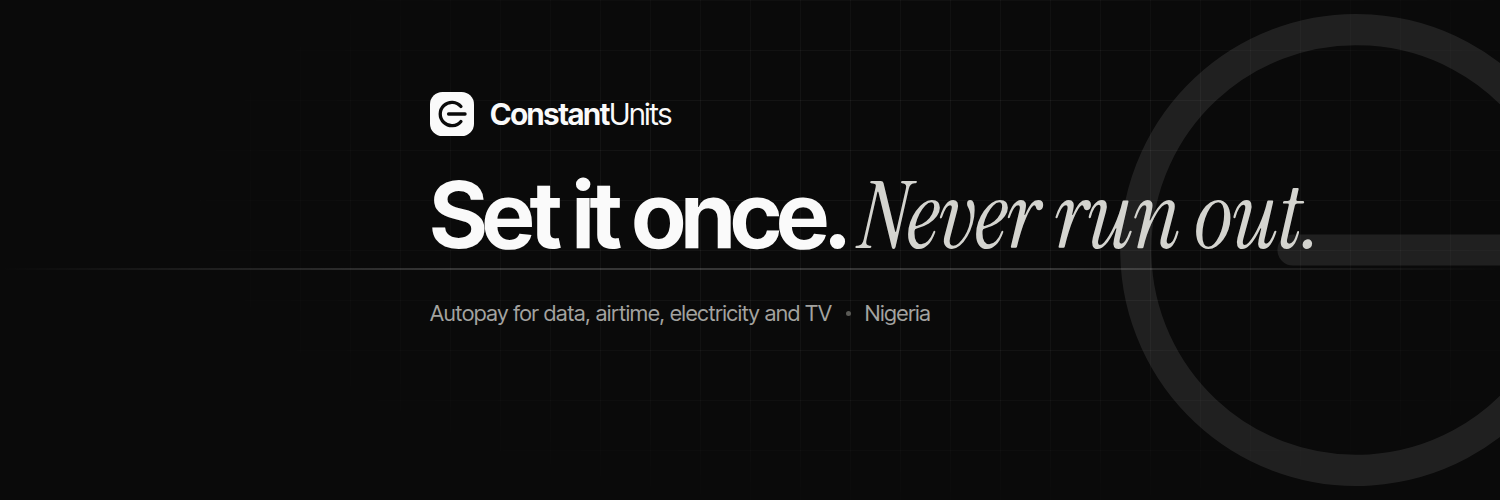
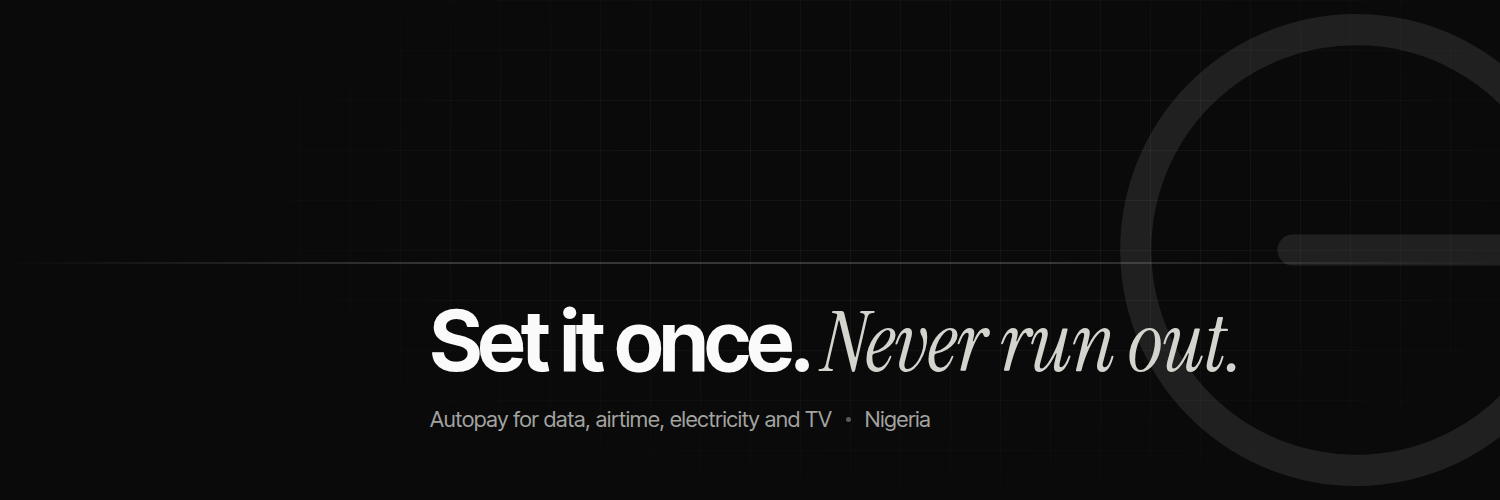
X header: text in the lower band, clear of the phone app's buttons
Claude-Session: https://claude.ai/code/session_01PthFm9iAEGM2oo19mkifC3

diff --git a/brand/src/header.html b/brand/src/header.html
@@ -7,17 +7,18 @@ body { position: relative; background: #0a0a0a; color: #fafafa; }
   background-image: linear-gradient(rgba(255,255,255,.045) 1px, transparent 1px), linear-gradient(90deg, rgba(255,255,255,.045) 1px, transparent 1px);
   background-size: 50px 50px; mask-image: radial-gradient(ellipse 70% 90% at 62% 40%, #000 30%, transparent 75%); }
 /* The level line from the mark, running across: the level that never drops. */
-.level { position: absolute; left: 0; right: 0; top: 268px; height: 2px; background: linear-gradient(90deg, transparent 0, rgba(255,255,255,.18) 30%, rgba(255,255,255,.18) 70%, transparent 100%); }
+.level { position: absolute; left: 0; right: 0; top: 262px; height: 2px; background: linear-gradient(90deg, transparent 0, rgba(255,255,255,.18) 30%, rgba(255,255,255,.18) 70%, transparent 100%); }
 /* The mark, large and cropped at the right edge. */
 .big { position: absolute; right: -150px; top: 50%; width: 560px; height: 560px; transform: translateY(-50%); opacity: .09; }
-/* Content stays in the centre and right: the profile photo covers the lower left, and phones crop the edges. */
-.content { position: absolute; left: 430px; top: 92px; width: 900px; }
+/* Content sits in the lower band, right of the profile photo. The X phone app lays its back, search and menu
+   buttons across the middle of the header and darkens the top; the profile photo covers the lower left. */
+.content { position: absolute; left: 430px; top: 300px; width: 960px; }
 .brand { display: flex; align-items: center; gap: 16px; font-size: 30px; font-weight: 650; letter-spacing: -.03em; }
 .brand .units { font-weight: 400; }
 .brand svg { width: 44px; height: 44px; }
-h1 { margin-top: 34px; font-size: 92px; line-height: .98; font-weight: 650; letter-spacing: -.045em; }
+h1 { font-size: 84px; line-height: .98; font-weight: 650; letter-spacing: -.045em; }
 h1 em { font-family: "Instrument Serif", serif; font-style: italic; font-weight: 400; letter-spacing: -.01em; color: #d4d4cf; }
-.meta { margin-top: 38px; display: flex; gap: 14px; align-items: center; font-size: 22px; color: #a3a3a0; letter-spacing: -.005em; }
+.meta { margin-top: 22px; display: flex; gap: 14px; align-items: center; font-size: 22px; color: #a3a3a0; letter-spacing: -.005em; }
 .meta .dot { width: 5px; height: 5px; border-radius: 50%; background: #5a5a56; }
 </style></head><body>
 <div class="grid"></div>
@@ -27,10 +28,6 @@ h1 em { font-family: "Instrument Serif", serif; font-style: italic; font-weight:
   <path d="M13.5 16H25.5" stroke="#fafafa" stroke-width="1.2" stroke-linecap="round"/>
 </svg>
 <div class="content">
-  <div class="brand">
-    <svg viewBox="0 0 32 32"><rect width="32" height="32" rx="9" fill="#fafafa"/><path d="M22.5 10.6A8.5 8.5 0 1 0 22.5 21.4" fill="none" stroke="#0a0a0a" stroke-width="2.4" stroke-linecap="round"/><path d="M13.5 16H25.5" stroke="#0a0a0a" stroke-width="2.4" stroke-linecap="round"/></svg>
-    <span>Constant<span class="units">Units</span></span>
-  </div>
   <h1>Set it once. <em>Never run out.</em></h1>
   <div class="meta"><span>Autopay for data, airtime, electricity and TV</span><span class="dot"></span><span>Nigeria</span></div>
 </div>

diff --git a/brand/README.md b/brand/README.md
@@ -6,7 +6,7 @@ Ready to upload, in `out/`:
 |---|---|---|
 | `x-profile-400.png` | 400 × 400 | X profile photo (X shows it as a circle; the mark sits well inside it) |
 | `x-profile-400-light.png` | 400 × 400 | Same, light version |
-| `x-header-1500x500.png` | 1500 × 500 | X header. Content stays centre-right: the profile photo covers the lower left and phones crop the edges |
+| `x-header-1500x500.png` | 1500 × 500 | X header. Text sits in the lower band, right of the profile photo: the X phone app lays its buttons across the middle of the header |
 | `icon-1024.png` | 1024 × 1024 | Square icon for other profiles (LinkedIn, Instagram, app stores later) |
 | `logo-dark-2400x600.png` | 2400 × 600, transparent | Logo with the name, for light backgrounds |
 | `logo-light-2400x600.png` | 2400 × 600, transparent | Logo with the name, for dark backgrounds |
